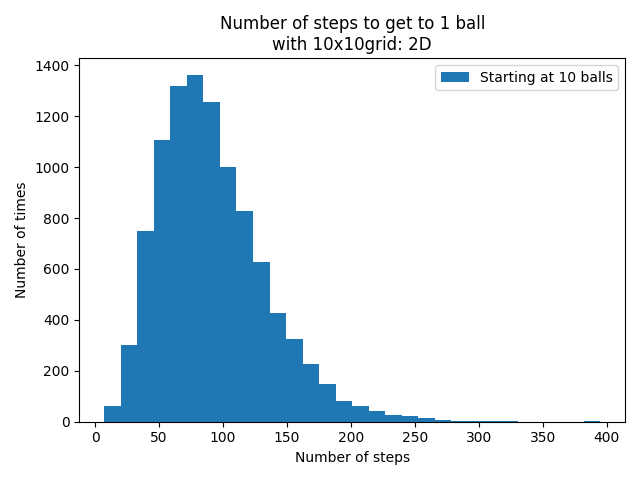
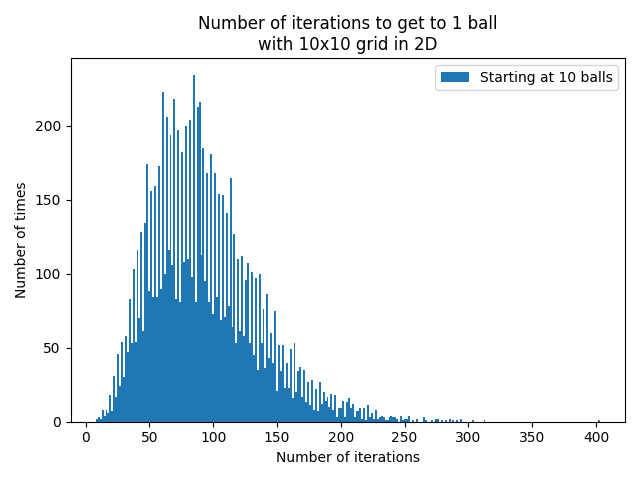
done?

diff --git a/random-walker-2D-rock-papper-sizors.py b/random-walker-2D-rock-papper-sizors.py
@@ -354,7 +354,7 @@ numberofsteps=10000
 for n in tqdm(range(numberofsteps)):
     #make an array of 1000 zeros
     size=10
-    number_of_balls=80
+    number_of_balls=40
     #make 2d array
     x1 = np.zeros((size,size))
 
@@ -393,25 +393,19 @@ for n in tqdm(range(numberofsteps)):
     number_of_steps=run_this_code(where_points_rock,where_points_paper,where_points_scissors,x1,limit)
     plot_number_of_steps_rock.append(number_of_steps)
     
-even=[]
-odd=[]
-for stuff in plot_number_of_steps_rock:
-    if stuff//2==0:
-        even.append(stuff)
-    else:
-        odd.append(stuff)
 
 
-numberofbins=int(len(list(set(plot_number_of_steps_rock)))/2)
-plt.hist(even,bins=1,color="b",label="Even number of iterations".format(number_of_balls))
-plt.hist(odd,bins=1,color="r",label="Odd number of iterations".format(number_of_balls))
+
+numberofbins=int(len(list(set(plot_number_of_steps_rock))))
+plt.hist(plot_number_of_steps_rock,bins=numberofbins,label="Starting with {} balls".format(number_of_balls))
+
 
 plt.legend(loc="upper right")
 plt.xlabel('Number of iterations')
 plt.ylabel('Number of times')
-plt.title('Even or odd number of iterations\nfor a {}x{} grid starting with {} balls'.format(size,size,number_of_balls))
+plt.title('Number of iterations to get only one surviving group\nin a {}x{} grid starting with {} balls'.format(size,size,number_of_balls))
 #plt.show()
 plt.tight_layout()
-plt.savefig('plots/rock-paper-scissors-even-odd.png'.format(size,number_of_balls))
+plt.savefig('plots/rock-paper-scissors-{}-{}.png'.format(size,number_of_balls))
 
 #"""

diff --git a/random-walker-1D.py b/random-walker-1D.py
@@ -86,7 +86,7 @@ def run_this_code(where_points):
             
         number_of_steps+=1
     return resulting_points, number_of_steps, what_happened
-
+"""
 resulting_points,number_of_steps,what_happened=run_this_code(where_points)
 
 print(number_of_steps)
@@ -156,7 +156,7 @@ plot_number_of_steps=[]
 numberofsteps=10000
 for n in tqdm(range(numberofsteps)):
     size=50
-    number_of_balls=40
+    number_of_balls=5
     x = np.zeros(size)
 
     #radnomly distribute 100 1s
@@ -173,12 +173,12 @@ for n in tqdm(range(numberofsteps)):
     resulting_points,number_of_steps,what_happened=run_this_code(where_points)
     plot_number_of_steps.append(number_of_steps)
 
-
-plt.hist(plot_number_of_steps, bins=30,label="Starting at {} balls".format(number_of_balls))
+numberofbins=len(list(set(plot_number_of_steps)))
+plt.hist(plot_number_of_steps, bins=numberofbins,label="Starting at {} balls".format(number_of_balls))
 plt.legend()
-plt.xlabel('Number of steps')
+plt.xlabel('Number of iterations')
 plt.ylabel('Number of times')
-plt.title('Number of steps to get to 1 ball\nwith {} line and starting at {} balls: 1D'.format(size,number_of_balls))
+plt.title('Number of iterations to get to 1 ball\nwith {} line and starting at {} balls: 1D'.format(size,number_of_balls))
 #plt.show()
 plt.tight_layout()
-plt.savefig('plots/random-walker-2D-{}-{}.png'.format(size,number_of_balls))"""
+plt.savefig('plots/random-walker-1D-{}-{}.png'.format(size,number_of_balls))

diff --git a/random-walker-2D.py b/random-walker-2D.py
@@ -252,8 +252,8 @@ plot_number_of_steps=[]
 numberofsteps=10000
 for n in tqdm(range(numberofsteps)):
     #make an array of 1000 zeros
-    size=5
-    number_of_balls=int(size**2/2)
+    size=10
+    number_of_balls=80
     #make 2d array
     x1 = np.zeros((size,size))
 
@@ -276,15 +276,16 @@ for n in tqdm(range(numberofsteps)):
     resulting_points,number_of_steps,what_happened=run_this_code(where_points)
     plot_number_of_steps.append(number_of_steps)
 
-numberofbins=int(len(list(set(plot_number_of_steps))))
+numberofbins=len(list(set(plot_number_of_steps)))
+
 plt.hist(plot_number_of_steps, bins=numberofbins,label="Starting at {} balls".format(number_of_balls))
 
 plt.legend()
-plt.xlabel('Number of steps')
+plt.xlabel('Number of iterations')
 plt.ylabel('Number of times')
-plt.title('Number of steps to get to 1 ball\nfor 50% ocupied grid\nof size {}x{} in 2D'.format(size,size))
+plt.title('Number of iterations to get to 1 ball\nwith {}x{} grid in 2D'.format(size,size))
 #plt.show()
 plt.tight_layout()
-plt.savefig('plots/50-prox-at-{}-{}.png'.format(size,number_of_balls))
+plt.savefig('plots/random-walker-2D-{}-{}.png'.format(size,number_of_balls))
 plt.close()
 
